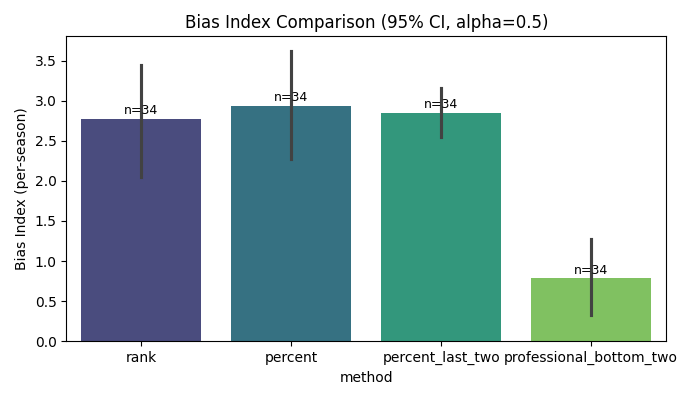
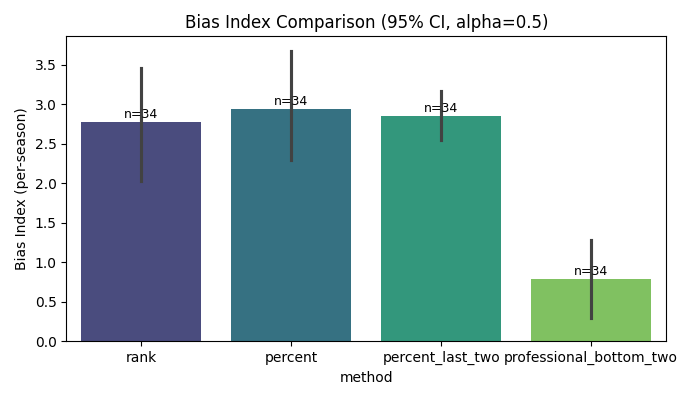
chore(paths): add centralized paths and refactor eval replay wrapper

diff --git a/src/eval/replay_simulator.py b/src/eval/replay_simulator.py
@@ -1,186 +1,30 @@
-"""
-Replay simulator (eval copy) — writes outputs under src/eval.
+"""Compatibility wrapper: delegate to `src.sim.replay_simulator` but emit replays under `src/eval/` to preserve past behavior.
 
-This is a copy of src/sim/replay_simulator.py adapted to emit files under src/eval.
-Use the --pest argument to pass the canonical p_est (we'll default to src/sim/fan_shares_popularity_0_1.csv if present).
+This wrapper centralizes simulation logic in `src/sim/replay_simulator.py` while keeping the historical
+file layout for downstream eval scripts that read `src/eval/replay_*.csv`.
 """
 from __future__ import annotations
 import argparse
 import os
-from typing import Dict, List
-import numpy as np
+from typing import List
 import pandas as pd
 
+from src.sim.replay_simulator import simulate_season, choose_default_pest, write_history_csv
+from src.tools.paths import REPLAYS_DIR, ensure_dirs
 
-def choose_default_pest():
-    candidates = [
-        'src/sim/fan_shares_popularity_0_1.csv',
-        'src/sim/fan_shares_entropy_1.0.csv',
-        'src/sim/fan_shares_entropy.csv',
-        'src/sim/fan_shares_refined.csv',
-        'src/sim/test_fan_p.csv',
-        'src/sim/fan_shares.csv',
-    ]
-    for c in candidates:
-        if os.path.exists(c):
-            return c
-    raise FileNotFoundError('No p_est file found; generate one with src/sim/model_main.py')
-
-
-def build_week_participants(panel_s: pd.DataFrame) -> Dict[int, List[str]]:
-    panel_s = panel_s.copy()
-    panel_s['week'] = pd.to_numeric(panel_s.get('week'), errors='coerce')
-    weeks = sorted(panel_s['week'].dropna().unique())
-    # Heuristic: if the dataset only contains one week but contains 'exit_week', it's a contestant-level panel.
-    if len(weeks) <= 1 and 'exit_week' in panel_s.columns:
-        panel_s['exit_week'] = pd.to_numeric(panel_s['exit_week'], errors='coerce')
-        max_w = int(panel_s['exit_week'].max()) if not panel_s['exit_week'].isna().all() else 1
-        A_t = {}
-        for w in range(1, max_w + 1):
-            names = panel_s.loc[panel_s['exit_week'].fillna(max_w) >= w, 'celebrity_name'].dropna().astype(str).tolist()
-            A_t[int(w)] = sorted(list(dict.fromkeys(names)))
-        return A_t
-    A_t = {}
-    for w in weeks:
-        names = panel_s.loc[panel_s['week'] == w, 'celebrity_name'].dropna().astype(str).tolist()
-        A_t[int(w)] = sorted(list(dict.fromkeys(names)))
-    return A_t
-
-
-def infer_elim_counts(A_t: Dict[int, List[str]]) -> Dict[int, int]:
-    weeks = sorted(A_t.keys())
-    m = {}
-    for i, w in enumerate(weeks):
-        if i + 1 < len(weeks):
-            next_w = weeks[i + 1]
-            dropped = set(A_t[w]) - set(A_t[next_w])
-            m[w] = max(0, len(dropped))
-        else:
-            m[w] = 0
-    return m
-
-
-def infer_elim_counts_from_col(panel_s: pd.DataFrame, elim_col: str) -> Dict[int, int]:
-    panel_s = panel_s.copy()
-    panel_s['week'] = pd.to_numeric(panel_s.get('week'), errors='coerce')
-    weeks = sorted(panel_s['week'].dropna().unique())
-    m = {}
-    if elim_col not in panel_s.columns:
-        return {int(w): 0 for w in weeks}
-    for w in weeks:
-        mask = (panel_s['week'] == w) & (panel_s[elim_col].astype(bool))
-        m[int(w)] = int(mask.sum())
-    return m
-
-
-def compute_qJ_for_week(panel_s: pd.DataFrame, week: int, active: List[str]) -> Dict[str, float]:
-    sub = panel_s[panel_s.get('week') == week]
-    sub = sub[sub['celebrity_name'].astype(str).isin(active)]
-    if sub.empty:
-        return {name: 1.0 / max(1, len(active)) for name in active}
-    totals = pd.to_numeric(sub['total_judge_score'], errors='coerce').astype(float)
-    denom = totals.sum()
-    if denom == 0:
-        return {name: 1.0 / max(1, len(active)) for name in active}
-    name_to_score = {str(r['celebrity_name']): float(r['total_judge_score']) for _, r in sub.iterrows()}
-    q = {name: name_to_score.get(str(name), 0.0) / denom for name in active}
-    s = sum(q.values())
-    if s <= 0:
-        return {name: 1.0 / max(1, len(active)) for name in active}
-    for k in q:
-        q[k] /= s
-    return q
-
-
-def get_p_for_week(pest_s: pd.DataFrame, week: int, active: List[str]) -> Dict[str, float]:
-    sub = pest_s[pest_s.get('week') == week]
-    sub = sub[sub['celebrity_name'].astype(str).isin(active)]
-    p_map = {name: 0.0 for name in active}
-    if sub.empty:
-        return {name: 1.0 / max(1, len(active)) for name in active}
-    for _, r in sub.iterrows():
-        p_map[str(r['celebrity_name'])] = float(r['p_est'])
-    s = sum(p_map.values())
-    if s <= 0:
-        return {name: 1.0 / max(1, len(active)) for name in active}
-    for k in p_map:
-        p_map[k] /= s
-    return p_map
-
-
-def tie_break_sort_percent(df: pd.DataFrame) -> pd.DataFrame:
-    return df.sort_values(by=['S', 'total_judge_score', 'p_est', 'celebrity_name'], ascending=[True, True, True, True])
-
-
-def tie_break_sort_rank(df: pd.DataFrame) -> pd.DataFrame:
-    return df.sort_values(by=['Rsum', 'total_judge_score', 'p_est', 'celebrity_name'], ascending=[False, True, True, True])
-
-
-def simulate_season(panel_s: pd.DataFrame, pest_s: pd.DataFrame, alpha: float = 0.5, method: str = 'percent', m_map: Dict[int,int] = None, verbose: bool = False) -> List[Dict]:
-    A_t = build_week_participants(panel_s)
-    if not A_t:
-        return []
-    weeks = sorted(A_t.keys())
-    if m_map is None:
-        m_map = infer_elim_counts(A_t)
-    if verbose and all(v == 0 for v in m_map.values()):
-        print('Warning: inferred elimination counts are zero for all weeks; pass --elim-col if your panel has an explicit elimination flag or check panel structure.')
-    active_set = list(A_t[weeks[0]])
-    history = []
-    for w in weeks:
-        if len(active_set) == 0:
-            break
-        m = m_map.get(w, 0)
-        if m <= 0:
-            history.append({'week': w, 'm': 0, 'elim_pred': [], 'active_count': len(active_set)})
-            if w in A_t:
-                next_idx = weeks.index(w) + 1
-                if next_idx < len(weeks):
-                    next_week = weeks[next_idx]
-                    active_set = [a for a in active_set if a in A_t[next_week] or a in active_set]
-            continue
-        qJ = compute_qJ_for_week(panel_s, w, active_set)
-        pmap = get_p_for_week(pest_s, w, active_set)
-        rows = []
-        for name in active_set:
-            total_judge = float(panel_s[(panel_s.get('week') == w) & (panel_s['celebrity_name'].astype(str) == name)]['total_judge_score'].astype(float).sum())
-            rows.append({'celebrity_name': name, 'qJ': qJ.get(name, 0.0), 'p_est': pmap.get(name, 0.0), 'total_judge_score': total_judge})
-        df = pd.DataFrame(rows)
-        if method == 'percent':
-            df['S'] = alpha * df['qJ'] + (1.0 - alpha) * df['p_est']
-            df_sorted = tie_break_sort_percent(df)
-            elim = df_sorted.head(m)['celebrity_name'].tolist()
-        else:
-            df['rank_J'] = df['total_judge_score'].rank(method='min', ascending=False)
-            df['rank_V'] = df['p_est'].rank(method='min', ascending=False)
-            df['Rsum'] = df['rank_J'] + df['rank_V']
-            df_sorted = tie_break_sort_rank(df)
-            elim = df_sorted.head(m)['celebrity_name'].tolist()
-        history.append({'week': w, 'm': m, 'elim_pred': elim.copy(), 'active_count': len(active_set)})
-        active_set = [a for a in active_set if a not in set(elim)]
-        next_idx = weeks.index(w) + 1
-        if next_idx < len(weeks):
-            next_week = weeks[next_idx]
-            active_set = [a for a in active_set if a in A_t.get(next_week, [])]
-    return history
-
-
-def write_history_csv(history: List[Dict], out_path: str, season: str, method: str):
-    rows = []
-    for h in history:
-        rows.append({'season': season, 'method': method, 'week': h['week'], 'm': h['m'], 'active_count': h['active_count'], 'elim_pred': ';'.join(h['elim_pred'])})
-    pd.DataFrame(rows).to_csv(out_path, index=False)
+# ensure the replays dir exists
+ensure_dirs([REPLAYS_DIR])
 
 
 def main(argv: List[str]):
     p = argparse.ArgumentParser()
     p.add_argument('--panel', required=True)
-    p.add_argument('--pest', default=None, help='p_est CSV (if not provided, fallback tries a few defaults)')
+    p.add_argument('--pest', default=None)
     p.add_argument('--season', required=True, help='season number or "all"')
     p.add_argument('--alpha', type=float, default=0.5)
     p.add_argument('--methods', default='percent,rank', help='comma separated list of methods to run')
-    p.add_argument('--elim-col', default=None, help='Optional column in panel that marks eliminated contestants for a week (bool-like)')
-    p.add_argument('--verbose', action='store_true', help='Print warnings and extra info')
+    p.add_argument('--elim-col', default=None)
+    p.add_argument('--verbose', action='store_true')
     args = p.parse_args(argv)
 
     panel = pd.read_csv(args.panel)
@@ -199,14 +43,22 @@ def main(argv: List[str]):
         pest_s = pest[pest['season'].astype(str) == str(s)].copy()
         m_map = None
         if args.elim_col and args.elim_col in panel_s.columns:
+            # reuse sim implementation for infer_elim_counts_from_col by calling simulate_season with m_map later
+            # but we need m_map here; import from sim module if available
+            from src.sim.replay_simulator import infer_elim_counts_from_col
+
             m_map = infer_elim_counts_from_col(panel_s, args.elim_col)
             if args.verbose:
                 print(f'Using elim_col {args.elim_col} to infer elimination counts: {m_map}')
+
         for method in methods:
             history = simulate_season(panel_s, pest_s, alpha=args.alpha, method=method, m_map=m_map, verbose=args.verbose)
-            out_p = f'src/eval/replay_{method}_season{str(s)}.csv'
-            write_history_csv(history, out_p, s, method)
-            print('Wrote', out_p)
+            out_p_eval = os.path.join('src', 'eval', f'replay_{method}_season{str(s)}.csv')
+            out_p_replay = os.path.join(REPLAYS_DIR, f'replay_{method}_season{str(s)}.csv')
+            # write both places for backward compatibility
+            write_history_csv(history, out_p_eval, s, method)
+            write_history_csv(history, out_p_replay, s, method)
+            print('Wrote', out_p_eval, 'and', out_p_replay)
 
 
 if __name__ == '__main__':

diff --git a/src/tools/paths.py b/src/tools/paths.py
@@ -1,0 +1,24 @@
+"""Centralized project paths.
+
+Provide canonical directories so scripts can import and avoid repeated ROOT logic.
+"""
+from __future__ import annotations
+import os
+from typing import Iterable
+
+PROJECT_ROOT = os.path.abspath(os.path.join(os.path.dirname(__file__), '..', '..'))
+SRC_DIR = os.path.join(PROJECT_ROOT, 'src')
+DATA_RAW = os.path.join(PROJECT_ROOT, 'data_raw')
+DATA_CLEAN = os.path.join(PROJECT_ROOT, 'output', 'data_cleaned')
+SIM_DIR = os.path.join(SRC_DIR, 'sim')
+EVAL_DIR = os.path.join(SRC_DIR, 'eval')
+REPLAYS_DIR = os.path.join(PROJECT_ROOT, 'replays')
+RESULTS_DIR = os.path.join(PROJECT_ROOT, 'results')
+OUTPUT_FIG_DIR = os.path.join(PROJECT_ROOT, 'output', 'fig')
+REPORTS_DIR = os.path.join(PROJECT_ROOT, 'reports')
+
+
+def ensure_dirs(paths: Iterable[str]):
+    for p in paths:
+        if not os.path.exists(p):
+            os.makedirs(p, exist_ok=True)

diff --git a/src/eval/plot_bias_with_and_without_ci.py b/src/eval/plot_bias_with_and_without_ci.py
@@ -10,10 +10,10 @@ import pandas as pd
 import matplotlib.pyplot as plt
 import seaborn as sns
 
-ROOT = os.path.abspath(os.path.join(os.path.dirname(__file__), '..', '..'))
-EVAL = os.path.join(ROOT, 'src', 'eval')
-OUTFIG = os.path.join(ROOT, 'output', 'fig', 'task3')
-os.makedirs(OUTFIG, exist_ok=True)
+from src.tools.paths import EVAL_DIR as EVAL, OUTPUT_FIG_DIR, ensure_dirs
+
+OUTFIG = os.path.join(OUTPUT_FIG_DIR, 'task3')
+ensure_dirs([OUTFIG])
 
 METHODS = ['rank', 'percent', 'percent_last_two', 'professional_bottom_two']
 

diff --git a/src/eval/aggregate_bias_and_plot.py b/src/eval/aggregate_bias_and_plot.py
@@ -10,10 +10,10 @@ import pandas as pd
 import matplotlib.pyplot as plt
 import seaborn as sns
 
-ROOT = os.path.abspath(os.path.join(os.path.dirname(__file__), '..', '..'))
-EVAL = os.path.join(ROOT, 'src', 'eval')
-OUTFIG = os.path.join(ROOT, 'output', 'fig', 'task3')
-os.makedirs(OUTFIG, exist_ok=True)
+from src.tools.paths import EVAL_DIR as EVAL, OUTPUT_FIG_DIR, ensure_dirs
+
+OUTFIG = os.path.join(OUTPUT_FIG_DIR, 'task3')
+ensure_dirs([OUTFIG])
 
 
 def load_bias(method):
